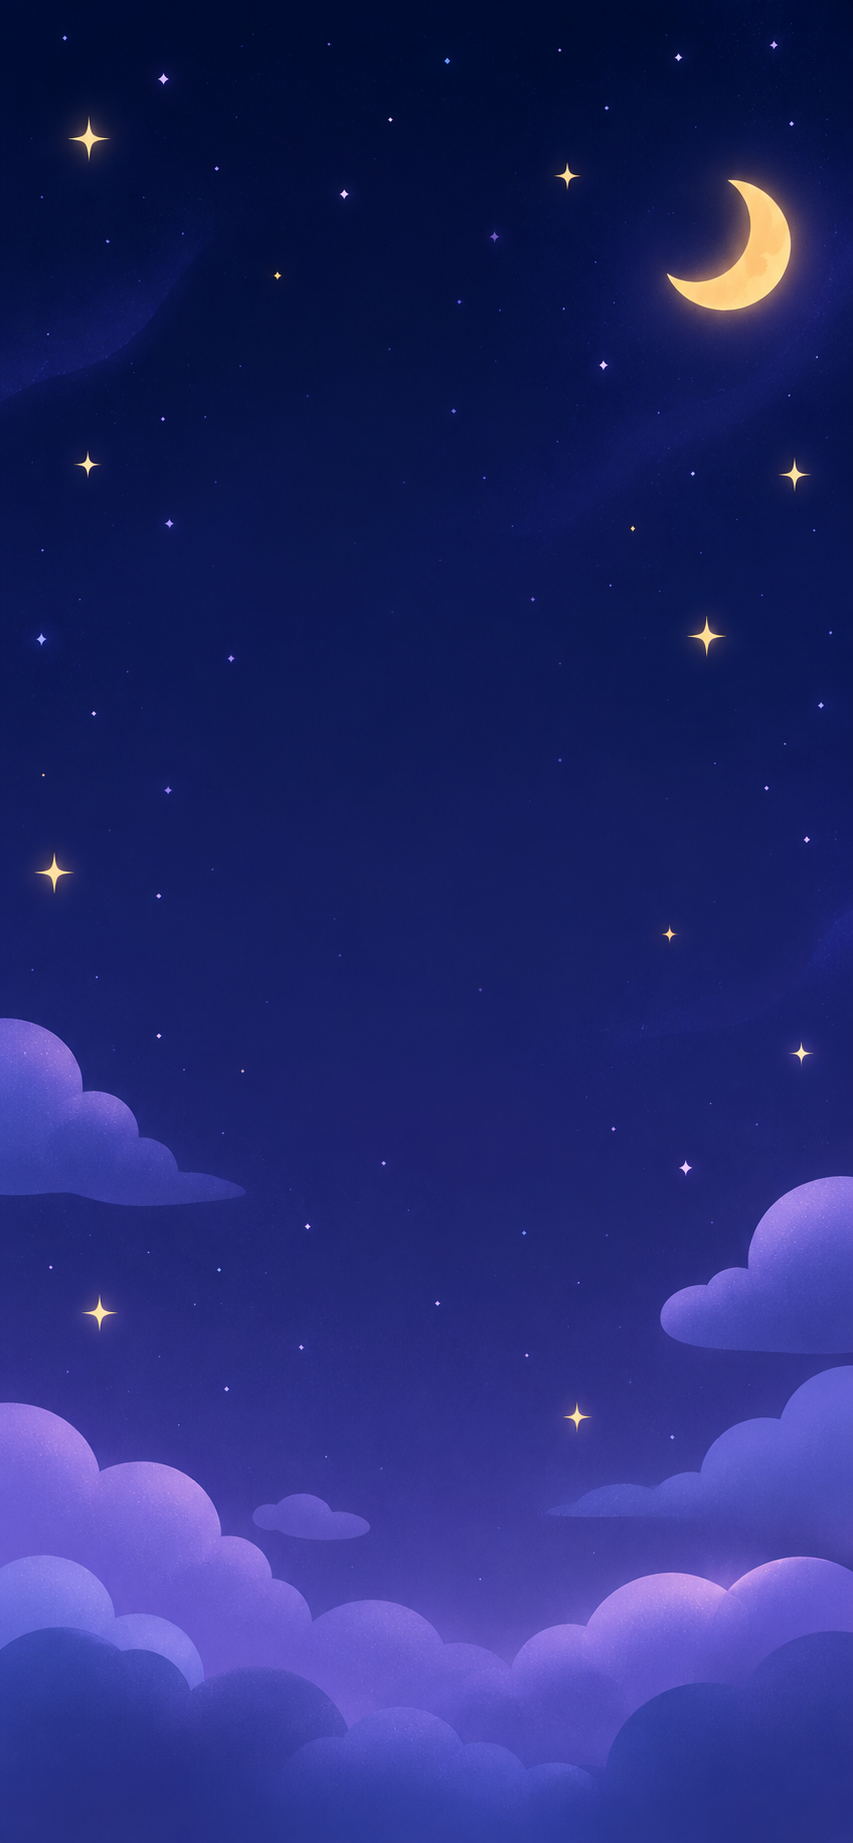
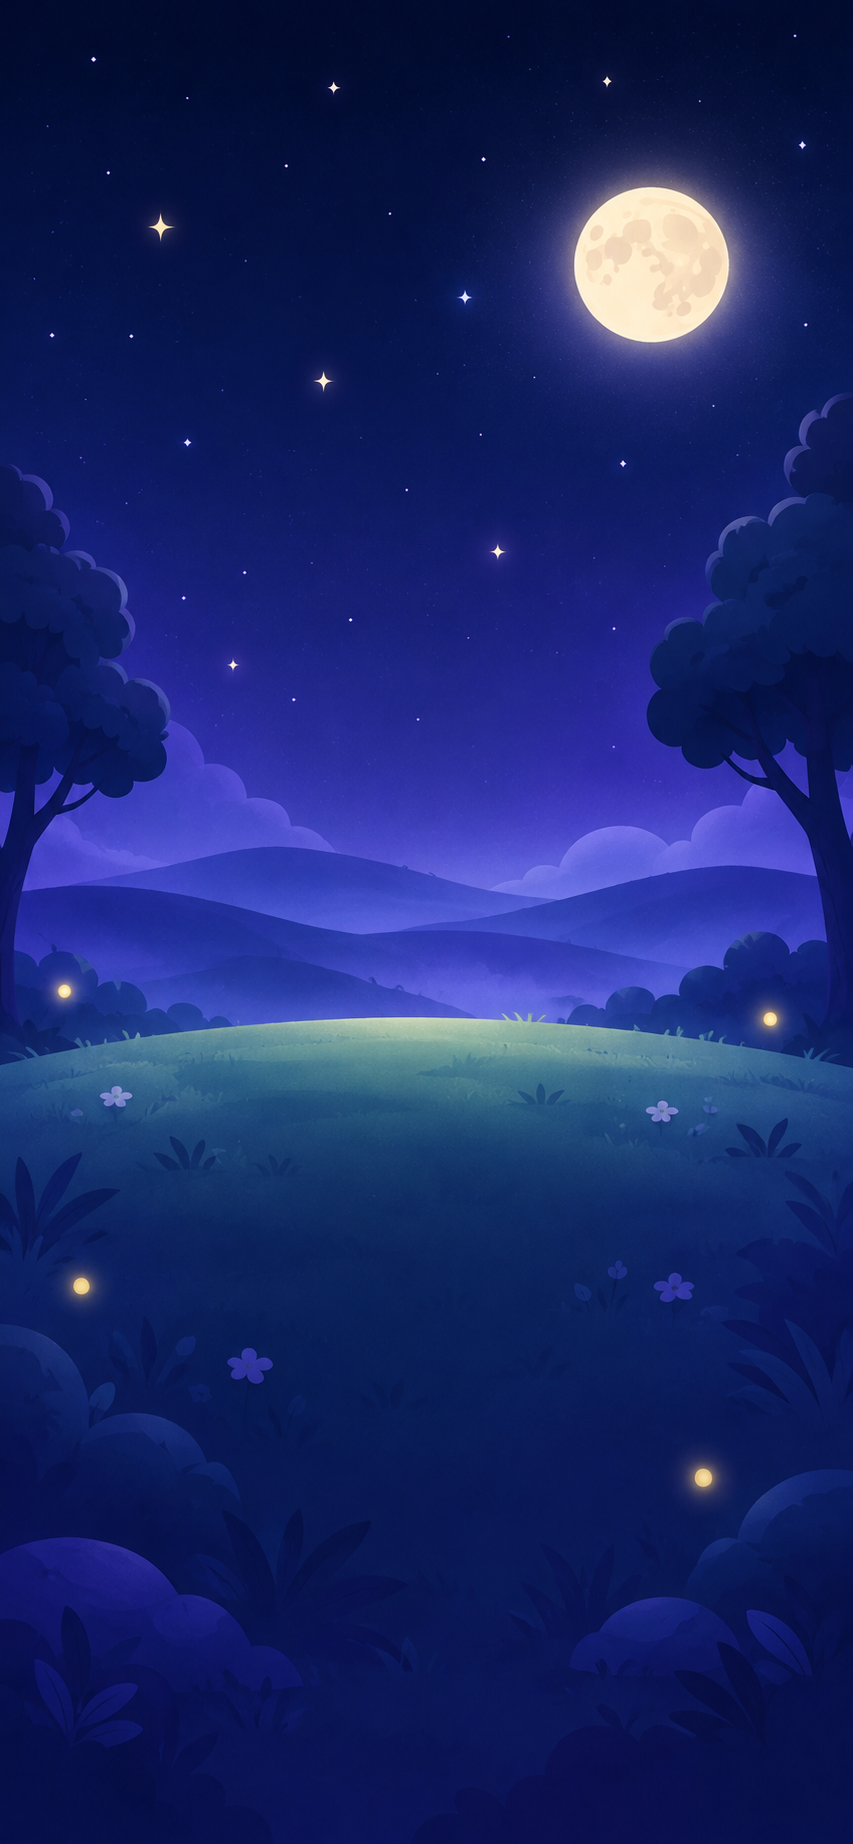
feat(home): 換成山丘夜景背景，寵物站在山頂上
- 背景跟內容一起捲動，寵物的腳依山頂高度（圖高 55.2%）定位，任何螢幕寬度都對得上
- 圖片左右翻轉，月亮移到右上角，避開問候文字

diff --git a/app/lib/screens/home_screen.dart b/app/lib/screens/home_screen.dart
@@ -74,8 +74,20 @@ class HomeScreen extends StatefulWidget {
   State<HomeScreen> createState() => _HomeScreenState();
 }
 
-/// 整頁的背景圖（原創，2026-11-12 由使用者以 prompt 生成）。
+/// 整頁的背景圖（原創，2026-11-12 由使用者以 prompt 生成，左右翻轉讓月亮避開問候文字）。
 const String kHomeBackgroundAsset = 'assets/backgrounds/night_sky.png';
+
+/// 背景圖的寬高比（853 × 1844）。
+const double kHomeBackgroundAspect = 853 / 1844;
+
+/// 山頂在圖片高度的哪個位置（實測 0.552）。寵物的腳要踩在這裡。
+const double kHomeBackgroundCrest = 0.552;
+
+/// 圖片最下緣的顏色，圖畫完之後頁面用它接下去。
+const Color kHomeBackgroundBottom = Color(0xFF090F4F);
+
+/// 寵物的大小。
+const double kHomePetSize = 230;
 
 class _HomeScreenState extends State<HomeScreen> with WidgetsBindingObserver {
   /// 在 initState 建立而不是在 build 裡——放 build 的話每次重繪都會重讀檔案。
@@ -335,44 +347,26 @@ class _HomeScreenState extends State<HomeScreen> with WidgetsBindingObserver {
 
   @override
   Widget build(BuildContext context) {
-    final screenWidth = MediaQuery.sizeOf(context).width;
-
-    return Stack(
-      children: [
-        // 背景圖鋪滿整頁，從上方對齊（月亮與星星在上、雲在下）。
-        Positioned.fill(
-          child: Image.asset(
-            kHomeBackgroundAsset,
-            fit: BoxFit.cover,
-            alignment: Alignment.topCenter,
-            errorBuilder: (context, error, stack) =>
-                const ColoredBox(color: SonnapColors.background),
-          ),
-        ),
-        SafeArea(
-          child: Center(
-            child: SizedBox(
-              width: screenWidth > 520 ? 520 : screenWidth,
-              child: FutureBuilder<SleepSession>(
-                future: _sessionFuture,
-                builder: (context, snapshot) {
-                  if (snapshot.connectionState == ConnectionState.waiting) {
-                    return const Center(
-                      child: CircularProgressIndicator(
-                        color: Color(0xFF8B6DFF),
-                      ),
-                    );
-                  }
-                  if (snapshot.hasError || !snapshot.hasData) {
-                    return _buildError(snapshot.error);
-                  }
-                  return _buildContent(snapshot.data!);
-                },
+    // 背景圖畫在捲動內容裡（見 [_buildContent]），寵物才會一直站在山頂上。
+    // 這裡的底色接在圖的下緣之後，顏色取自圖片最下面那一列。
+    return ColoredBox(
+      color: kHomeBackgroundBottom,
+      child: FutureBuilder<SleepSession>(
+        future: _sessionFuture,
+        builder: (context, snapshot) {
+          if (snapshot.connectionState == ConnectionState.waiting) {
+            return const SafeArea(
+              child: Center(
+                child: CircularProgressIndicator(color: Color(0xFF8B6DFF)),
               ),
-            ),
-          ),
-        ),
-      ],
+            );
+          }
+          if (snapshot.hasError || !snapshot.hasData) {
+            return SafeArea(child: _buildError(snapshot.error));
+          }
+          return _buildContent(snapshot.data!);
+        },
+      ),
     );
   }
 
@@ -444,34 +438,84 @@ class _HomeScreenState extends State<HomeScreen> with WidgetsBindingObserver {
     final display = session.display;
     final mood = session.status.petMood;
     final game = _game?.value;
+    final media = MediaQuery.of(context);
+    final width = media.size.width;
+    final topInset = media.padding.top;
+    final contentWidth = width > 520 ? 520.0 : width;
+
+    // 圖片以整個螢幕寬度從最上面鋪下來，所以山頂的位置可以算出來。
+    // 寵物的腳（圖框底部往上約 8%）踩在山頂稍下方一點的草地上。
+    final crestY = width / kHomeBackgroundAspect * kHomeBackgroundCrest;
+    final heroHeight = crestY + 14 + kHomePetSize * 0.08 - topInset;
 
     return SingleChildScrollView(
-      padding: const EdgeInsets.fromLTRB(20, 12, 20, 24),
-      child: Column(
+      child: Stack(
         children: [
-          _buildHeader(session, now, game),
-          const SizedBox(height: 8),
-          _buildPet(mood, game),
-          Text(
-            display.moodDescription,
-            key: const Key('mood-description'),
-            textAlign: TextAlign.center,
-            style: const TextStyle(
-              color: SonnapColors.textPrimary,
-              fontSize: 16,
-              fontWeight: FontWeight.w700,
+          Image.asset(
+            kHomeBackgroundAsset,
+            width: width,
+            fit: BoxFit.fitWidth,
+            alignment: Alignment.topCenter,
+            errorBuilder: (context, error, stack) => const SizedBox.shrink(),
+          ),
+          Padding(
+            padding: EdgeInsets.only(top: topInset),
+            child: Center(
+              child: SizedBox(
+                width: contentWidth,
+                child: Padding(
+                  padding: const EdgeInsets.fromLTRB(20, 12, 20, 24),
+                  child: Column(
+                    children: [
+                      SizedBox(
+                        height: heroHeight,
+                        child: Stack(
+                          children: [
+                            Positioned(
+                              top: 0,
+                              left: 0,
+                              right: 0,
+                              child: _buildHeader(session, now, game),
+                            ),
+                            Positioned(
+                              left: 0,
+                              right: 0,
+                              bottom: 0,
+                              child: _buildPet(mood, game),
+                            ),
+                          ],
+                        ),
+                      ),
+                      const SizedBox(height: 4),
+                      Text(
+                        display.moodDescription,
+                        key: const Key('mood-description'),
+                        textAlign: TextAlign.center,
+                        style: const TextStyle(
+                          color: SonnapColors.textPrimary,
+                          fontSize: 16,
+                          fontWeight: FontWeight.w700,
+                          shadows: [
+                            Shadow(blurRadius: 8, color: Colors.black54),
+                          ],
+                        ),
+                      ),
+                      const SizedBox(height: 16),
+                      WeekMoodStrip(history: session.history),
+                      const SizedBox(height: 16),
+                      _buildScoreLine(session),
+                      const SizedBox(height: 14),
+                      _buildBedtimeRow(now),
+                      const SizedBox(height: 12),
+                      _buildBedButtons(),
+                      const SizedBox(height: 18),
+                      _buildTiles(session),
+                    ],
+                  ),
+                ),
+              ),
             ),
           ),
-          const SizedBox(height: 16),
-          WeekMoodStrip(history: session.history),
-          const SizedBox(height: 16),
-          _buildScoreLine(session),
-          const SizedBox(height: 14),
-          _buildBedtimeRow(now),
-          const SizedBox(height: 12),
-          _buildBedButtons(),
-          const SizedBox(height: 18),
-          _buildTiles(session),
         ],
       ),
     );
@@ -589,20 +633,21 @@ class _HomeScreenState extends State<HomeScreen> with WidgetsBindingObserver {
   Widget _buildPet(String mood, GameState? game) {
     final color = moodColor(mood);
     return SizedBox(
-      height: 250,
+      height: kHomePetSize,
       child: Stack(
         alignment: Alignment.center,
+        clipBehavior: Clip.none,
         children: [
           HomePet(
             mood: mood,
-            size: 230,
+            size: kHomePetSize,
             equippedItemId: _closet?.value?.equippedItemId,
             accessoryEmoji: _closet?.value?.equipped?.emoji,
             growthStage: game?.growthStage,
           ),
           Positioned(
-            right: 40,
-            bottom: 18,
+            right: 30,
+            bottom: 0,
             child: Container(
               key: const Key('mood-chip'),
               padding: const EdgeInsets.symmetric(horizontal: 12, vertical: 5),
@@ -903,14 +948,15 @@ class _HomeScreenState extends State<HomeScreen> with WidgetsBindingObserver {
         camera.status == CameraInsightsStatus.failed ||
         camera.status == CameraInsightsStatus.noUser) {
       return InfoTile(
-          key: key,
-          icon: icon,
-          iconColor: color,
-          title: title,
-          value: null,
-          missingNote: camera?.status == CameraInsightsStatus.noUser
-              ? 'Needs an account'
-              : (camera == null ? 'Loading…' : 'Backend unreachable'));
+        key: key,
+        icon: icon,
+        iconColor: color,
+        title: title,
+        value: null,
+        missingNote: camera?.status == CameraInsightsStatus.noUser
+            ? 'Needs an account'
+            : (camera == null ? 'Loading…' : 'Backend unreachable'),
+      );
     }
 
     // 只看跟首頁同一晚的那一筆；沒有就是那晚沒錄影，不退回別的晚上。
